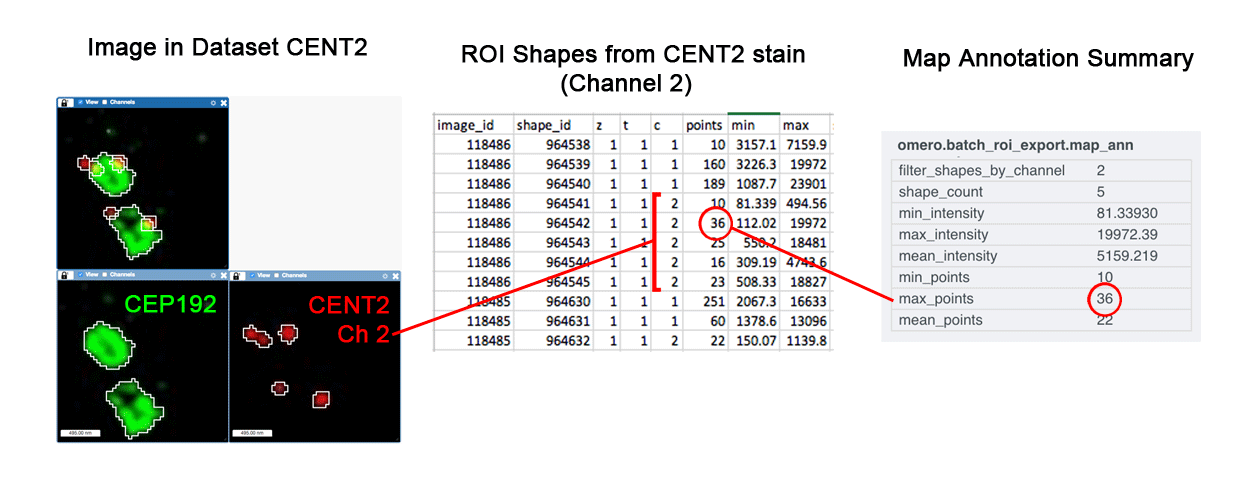
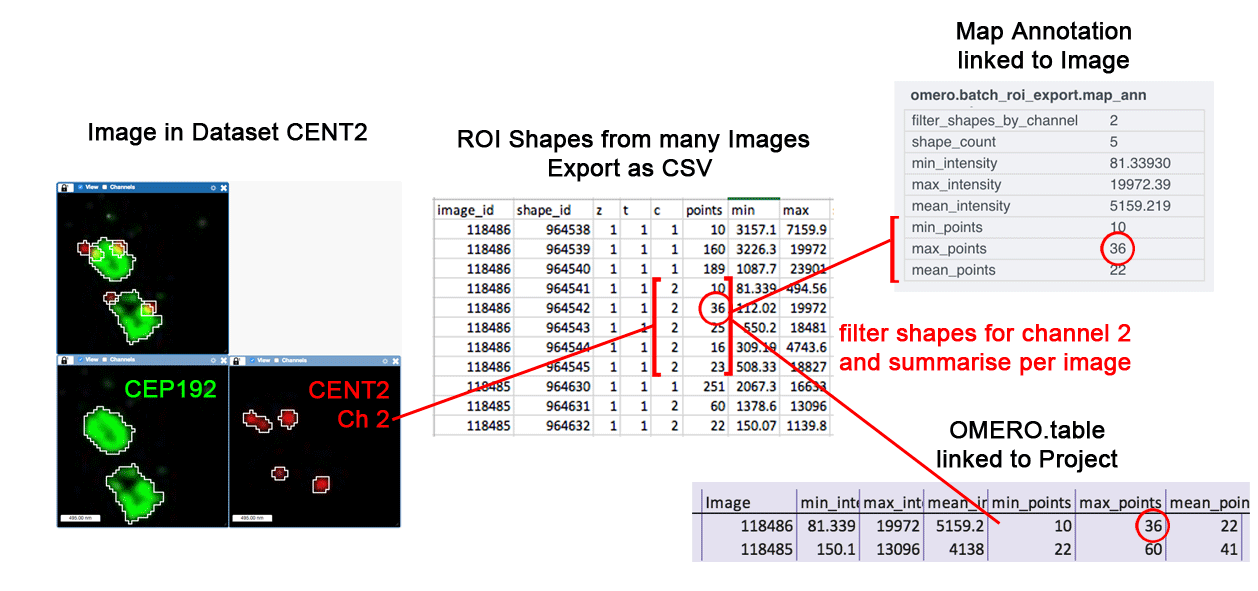
Update ROIs_to_CSV_and_Maps slide

diff --git a/2018/Users-Meeting/Workshops/Metadata-Analysis/slides/index.html b/2018/Users-Meeting/Workshops/Metadata-Analysis/slides/index.html
@@ -51,8 +51,13 @@
                         <li>OMERO: a <i>platform</i> for image analysis</li>
                         <li>Client-side vs Server-side analysis</li>
                         <li>Sample data: Study 21 from IDR</li>
-                        <li>Jython scripts in Fiji</li>
-                        <li>Python scripts on OMERO.server</li>
+                        <li>Demo:
+                            <ul>
+                                <li>Fiji as an OMERO client: Manual Analysis</li>
+                                <li>Jython scripts in Fiji</li>
+                                <li>Python scripts on OMERO.server</li>
+                            </ul>
+                        </li>
                     </ul>
                 </section>
 
@@ -118,7 +123,7 @@
                     <ol>
                         <li>Fiji: Manual analysis of particles and save to OMERO</li>
                         <li>Fiji: Scripted analysis of particles and save ROIs to OMERO</li>
-                        <li>OMERO.script: Server-side processing of ROIs to create OMERO.table</li>
+                        <li>OMERO.script: Server-side processing of ROIs to create Map Annotations and OMERO.table</li>
                     </ol>
                 </section>
 
